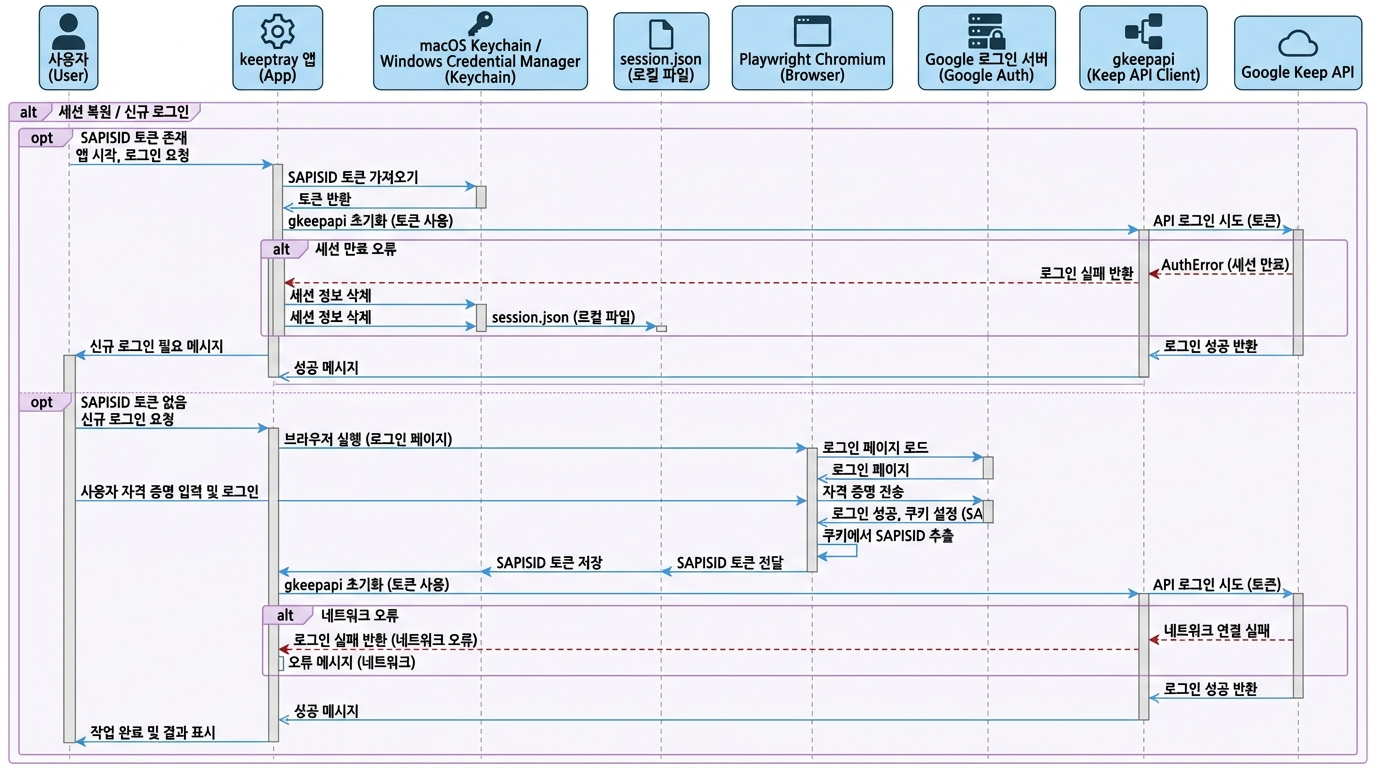
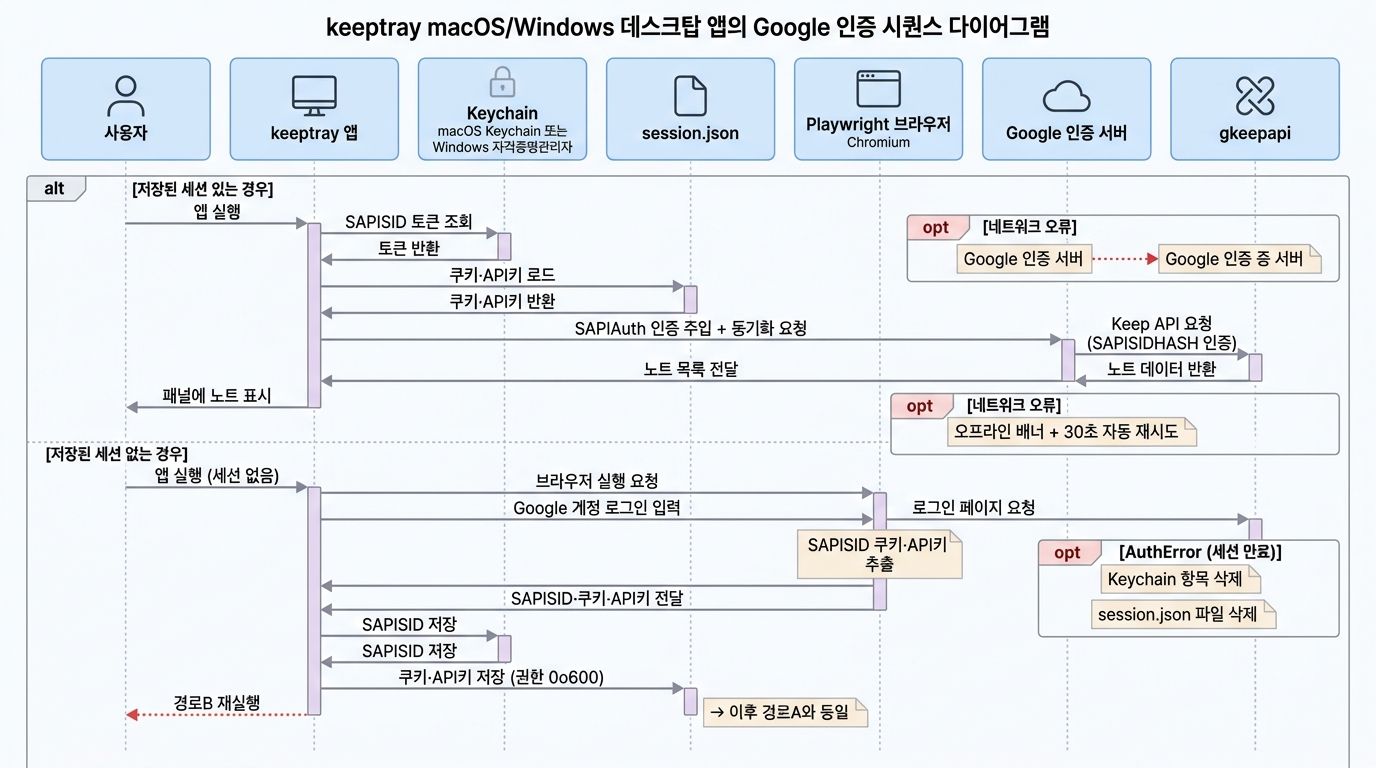
docs: 다이어그램 4종 한글화 및 내용 정확도 수정
- state_diagram: 영어 → 한글 재생성
- component_diagram: 레이어명·화살표 한글화, keeptray 실제 구조 반영
- usecase_diagram: 영어 병기 제거, 순수 한글
- auth_sequence: Android·GmsCore 등 잘못된 참여자 → 실제 구성요소로 교체 (Playwright·Keychain·gkeepapi)

diff --git a/src/keeptray/__init__.py b/src/keeptray/__init__.py
@@ -1,1 +1,1 @@
-__version__ = "0.1.93"
+__version__ = "0.1.94"
